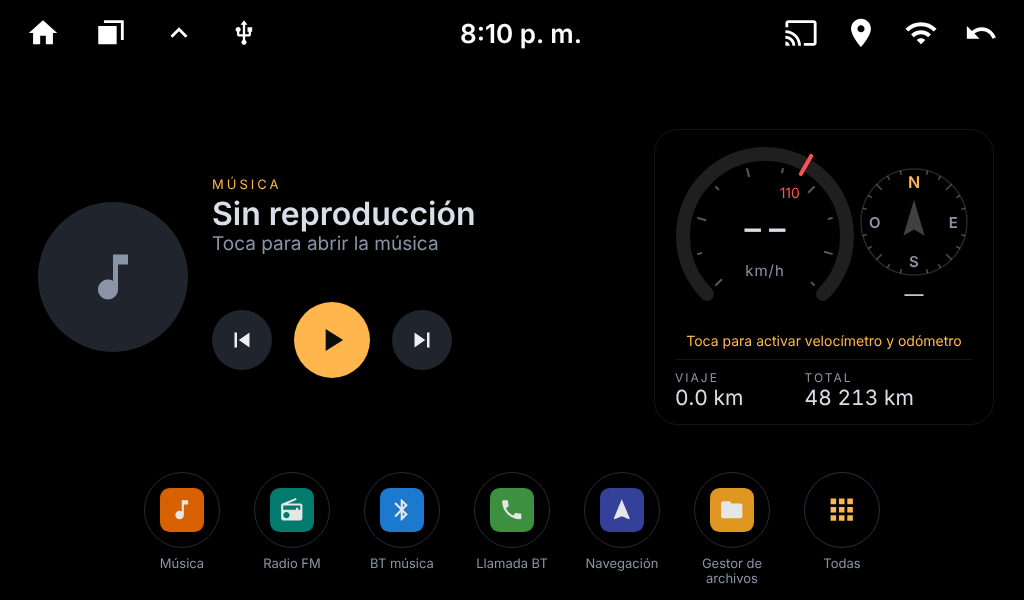
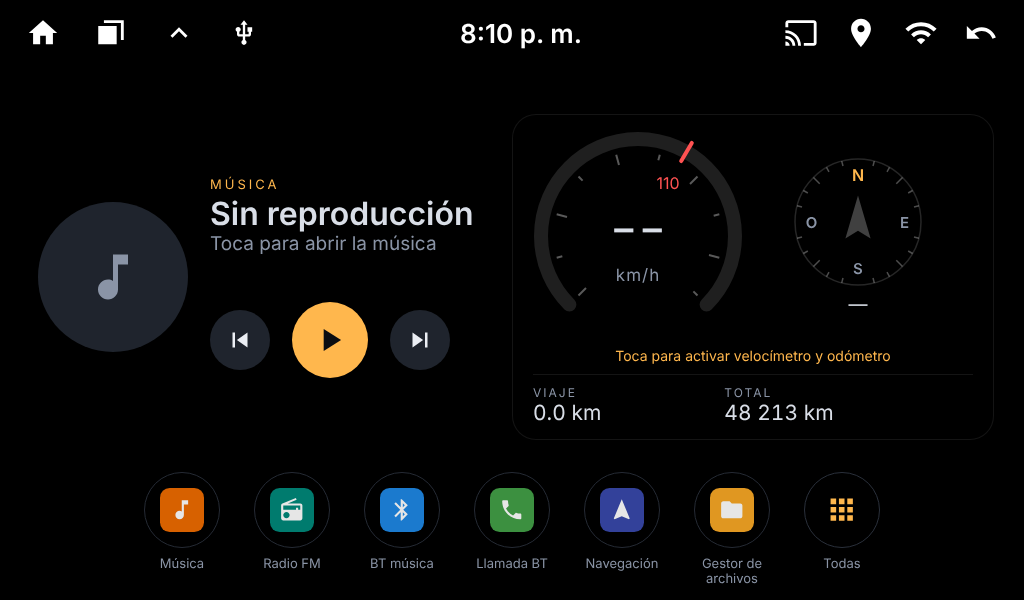
3.6.0 (prueba): render del diseño 50/50 para el README
Claude-Session: https://claude.ai/code/session_011vyBQ6bBFkKsMFyk998ioB

diff --git a/docs/preview/instrumentos.py b/docs/preview/instrumentos.py
@@ -1,5 +1,5 @@
 #!/usr/bin/env python3
-"""Inicio 3.5 (diseño A): música a la izquierda; velocidad, brújula y odómetro a la derecha.
+"""Inicio 3.6 (diseño A, 50/50): música en la mitad izquierda; velocidad, brújula y odómetro en la derecha.
 
 Genera docs/screenshots/01, 02 y 05 (render del diseño, no capturas del equipo).
     pip install playwright pillow && python3 docs/preview/instrumentos.py
@@ -28,7 +28,7 @@ def mix(t):
     return "#%02X%02X%02X" % tuple(round(a[i] + (b[i] - a[i]) * u) for i in range(3))
 
 
-def speed_gauge(speed, limit, size=180, maxv=180, stroke=14):
+def speed_gauge(speed, limit, size=210, maxv=180, stroke=14):
     c, r = size / 2, size / 2 - stroke / 2 - 1
     a0, sweep = -135, 270
     track = ""
@@ -63,7 +63,7 @@ def speed_gauge(speed, limit, size=180, maxv=180, stroke=14):
             f'<div style="margin-top:6px;font-size:{int(size*.085)}px;color:{DIM};letter-spacing:1px">km/h</div></div></div>')
 
 
-def compass(heading, size=110):
+def compass(heading, size=130):
     c, rr = size / 2, size / 2 - 2
     rot = heading if heading is not None else 0
     ticks = ""
@@ -101,13 +101,13 @@ def home(speed, heading, limit, trip, total, status=None, playing=True):
         cov = f'<div style="width:150px;height:150px;border-radius:75px;background:#1F242D;display:flex;align-items:center;justify-content:center">{ico("note", 60, DIM)}</div>'
         bar = '<div style="margin-top:12px;height:4px"></div><div style="margin-top:4px;height:17px"></div>'
         main_ico = "play"
-    music = (f'<div style="flex:1;display:flex;align-items:center;padding:8px">{cov}<div style="width:320px;margin-left:24px">'
+    music = (f'<div style="flex:1;display:flex;align-items:center;padding:8px">{cov}<div style="flex:1;min-width:0;margin-left:22px">'
              f'<div style="font-size:13px;letter-spacing:3px;color:{ACC}">{src}</div>'
              f'<div style="margin-top:4px;font-size:32px;font-weight:600;color:{INK};line-height:1.15;white-space:nowrap;overflow:hidden;text-overflow:ellipsis">{title}</div>'
              f'<div style="font-size:19px;color:{DIM}">{artist}</div>{bar}'
              f'<div style="margin-top:10px;display:flex;align-items:center;gap:22px">{btn("prev", 60)}{btn(main_ico, 76, True)}{btn("next", 60)}</div></div></div>')
     st = f'<div style="margin-top:6px;text-align:center;font-size:14px;color:{ACC}">{status}</div>' if status else ""
-    card = (f'<div style="{GLASS};width:340px;padding:16px 20px 14px;box-sizing:border-box;margin-left:26px">'
+    card = (f'<div style="{GLASS};flex:1;padding:16px 20px 14px;box-sizing:border-box;margin-left:26px">'
             f'<div style="display:flex;align-items:center">{speed_gauge(speed, limit)}{compass(heading)}</div>{st}'
             f'<div style="height:1px;margin-top:10px;background:rgba(255,255,255,.08)"></div>'
             f'<div style="display:flex;margin-top:10px">{odo("VIAJE", trip + " km")}{odo("TOTAL", total + " km", 1.3)}</div></div>')
